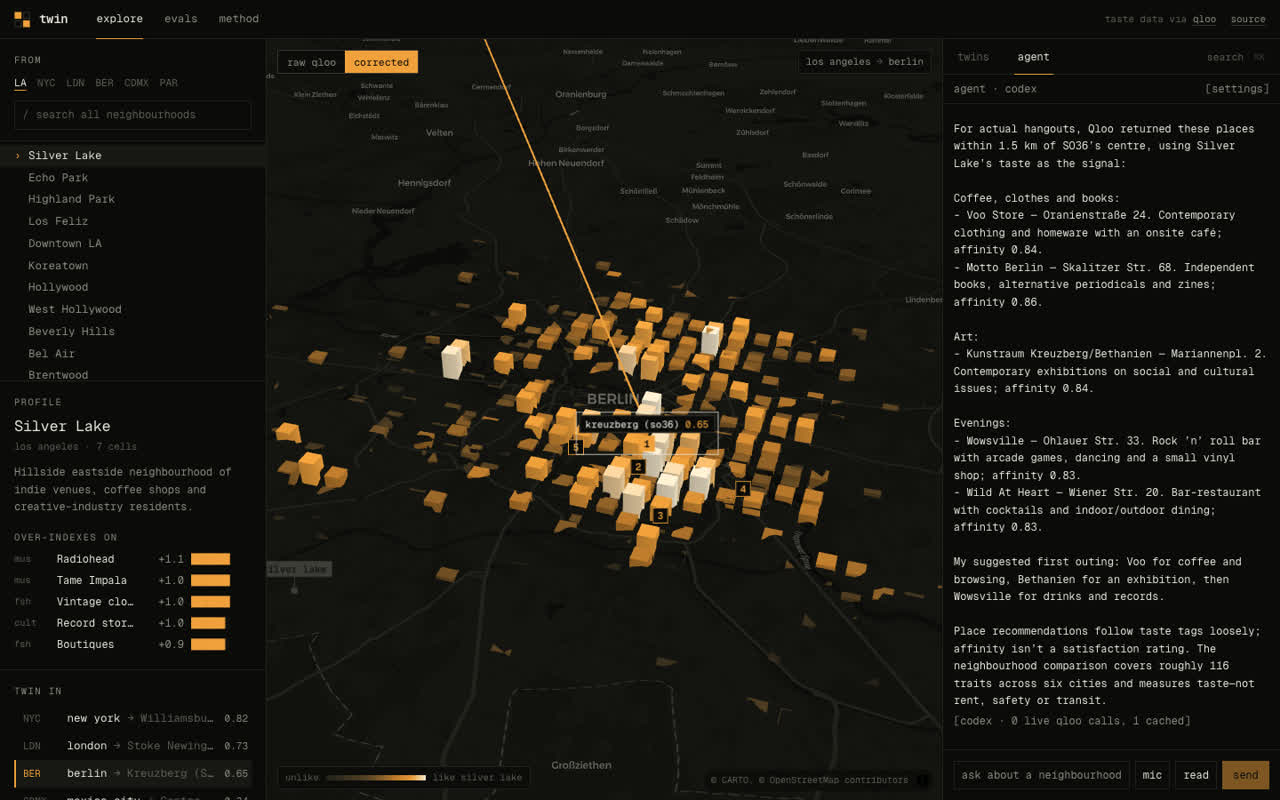
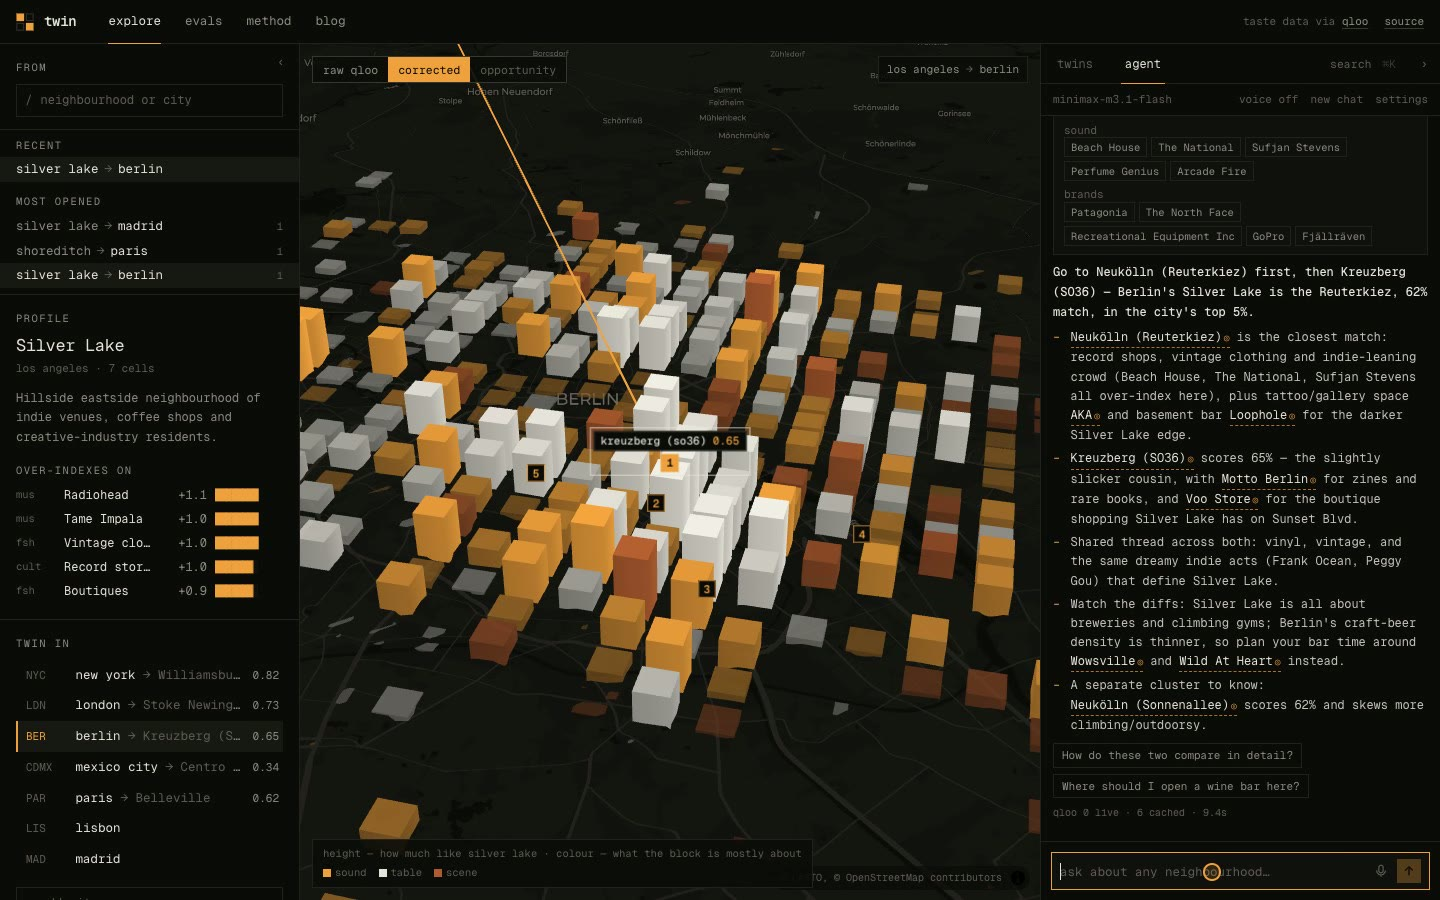
README media from the current UI (explore, raw vs corrected, agent run); drop the stale v2 build spec

diff --git a/README.md b/README.md
@@ -61,7 +61,7 @@ So the product's claim is the honest one: the LLM reasons and knows the famous a
 
 ## The agent
 
-<img src="web/public/media/agent.jpg" alt="the agent answering 'I love Silver Lake and I'm moving to Berlin' with Kreuzberg SO36 and venues returned live by Qloo" width="100%">
+<img src="web/public/media/agent.gif" alt="the agent answering 'I love Silver Lake, I'm moving to Berlin — where do I go?': steps stream with their sources, the answer names real places from Qloo, and clicking one flies the map there" width="100%">
 
 Qloo makes every taste decision; the other sources only do jobs Qloo can't:
 
